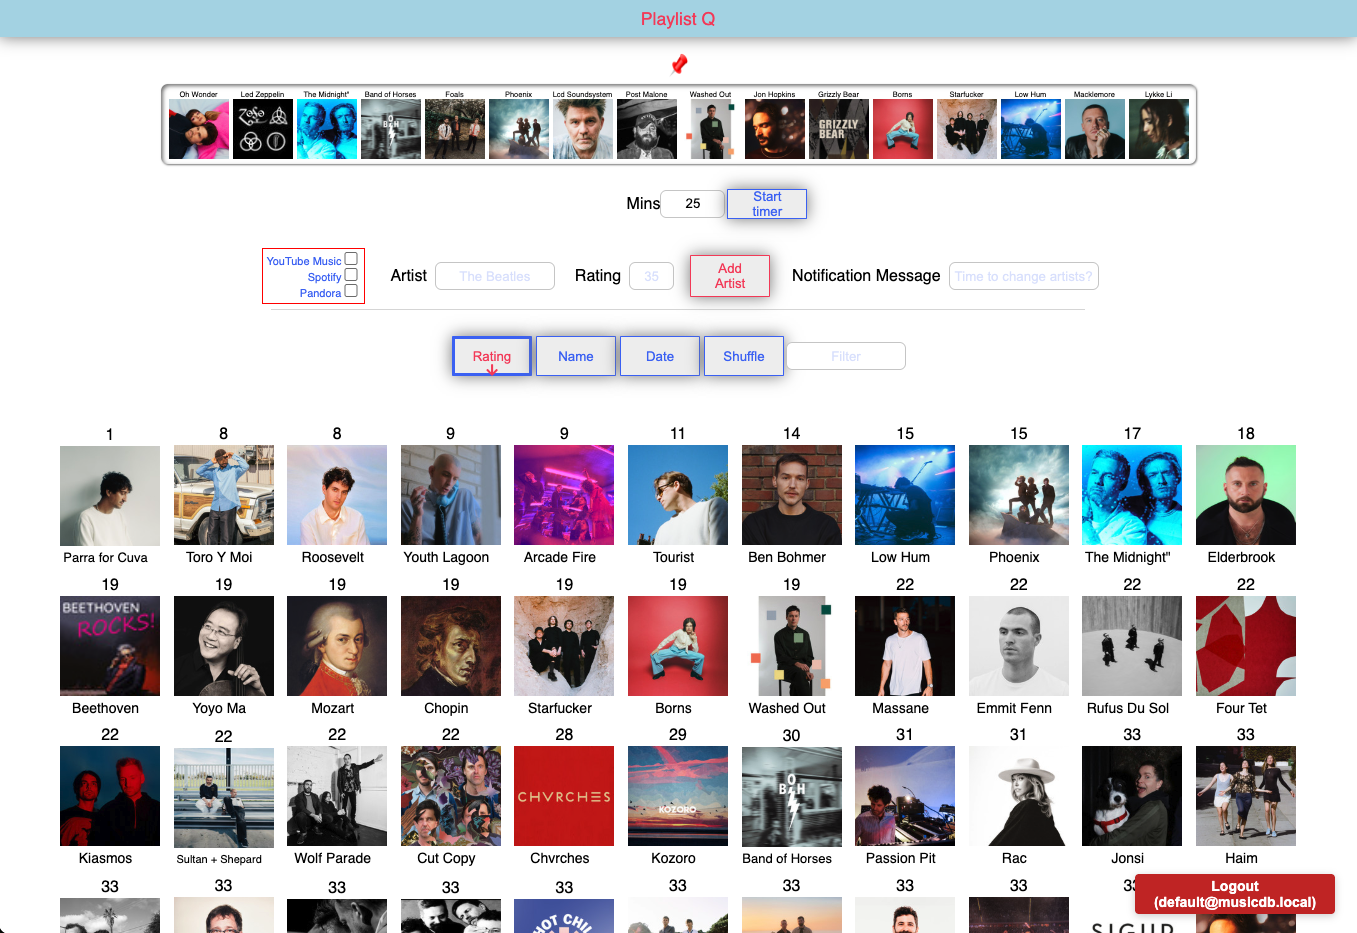
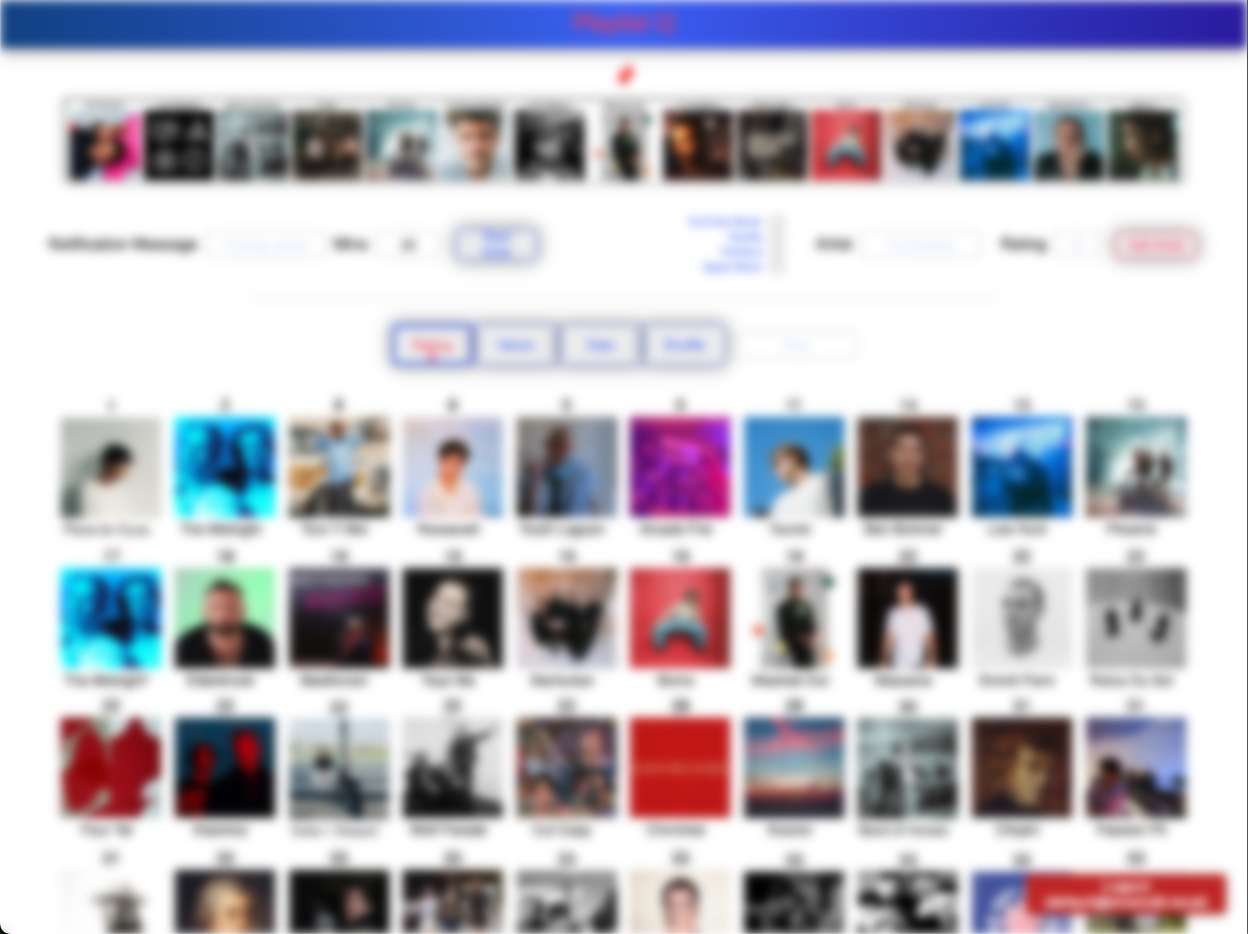
wide layout, blur actual bg image

diff --git a/react-ui/src/components/View.js b/react-ui/src/components/View.js
@@ -29,8 +29,9 @@ const View = ({ handleEvent, uiState, app, time, onLogout, user }) => {
             onReorderPinned={(dragIndex, hoverIndex) => handleEvent({ action: 'reorderPinned', dragIndex, hoverIndex })}
           />
 
-          <section style={{ marginTop: '1.5rem', marginBottom: '.5rem' }}>
-            <div className="controls-row" style={{ display: 'flex', justifyContent: 'space-between', alignItems: 'center', gap: '4rem', flexWrap: 'wrap', margin: '0 50px 1rem 30px' }}>
+          <section style={{ maxWidth: '1400px',
+    margin: '1.5rem auto .5rem auto' }}>
+            <div className="controls-row" style={{ display: 'flex', justifyContent: 'space-between', alignItems: 'center',  flexWrap: 'wrap', margin: '0 50px 1rem 30px' }}>
               <div className="controls-row-item" style={{ display: 'flex', alignItems: 'center' , gap: '0.5rem'}}>
                 <div style={{ display: 'flex', alignItems: 'center', }}>
                   <label style={{ margin: 0, whiteSpace: 'nowrap' , }}>Notification Message</label>

diff --git a/react-ui/src/components/Auth.js b/react-ui/src/components/Auth.js
@@ -218,7 +218,6 @@ const styles = {
     backgroundImage: `url(${blurredBg})`,
     backgroundSize: 'cover',
     backgroundPosition: 'center',
-    filter: 'blur(5px)',
     zIndex: 0,
   },
   card: {
